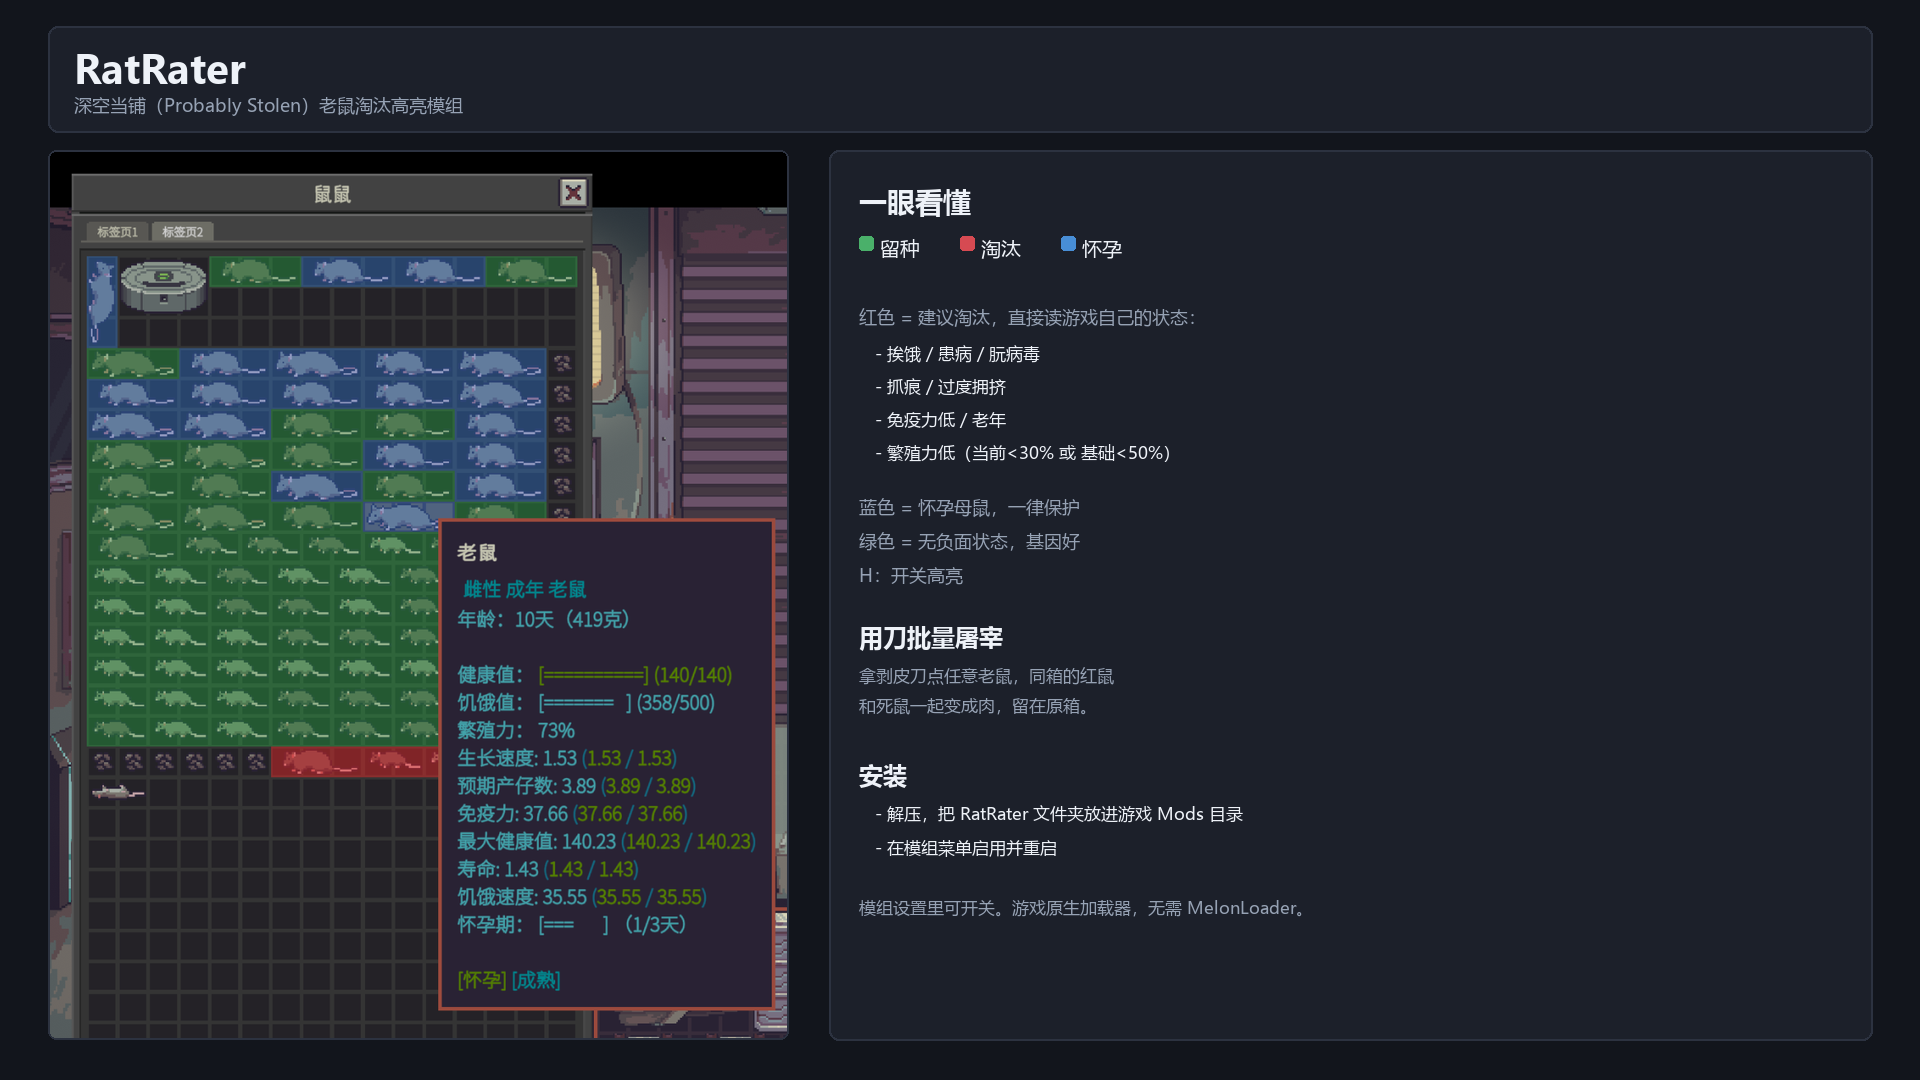
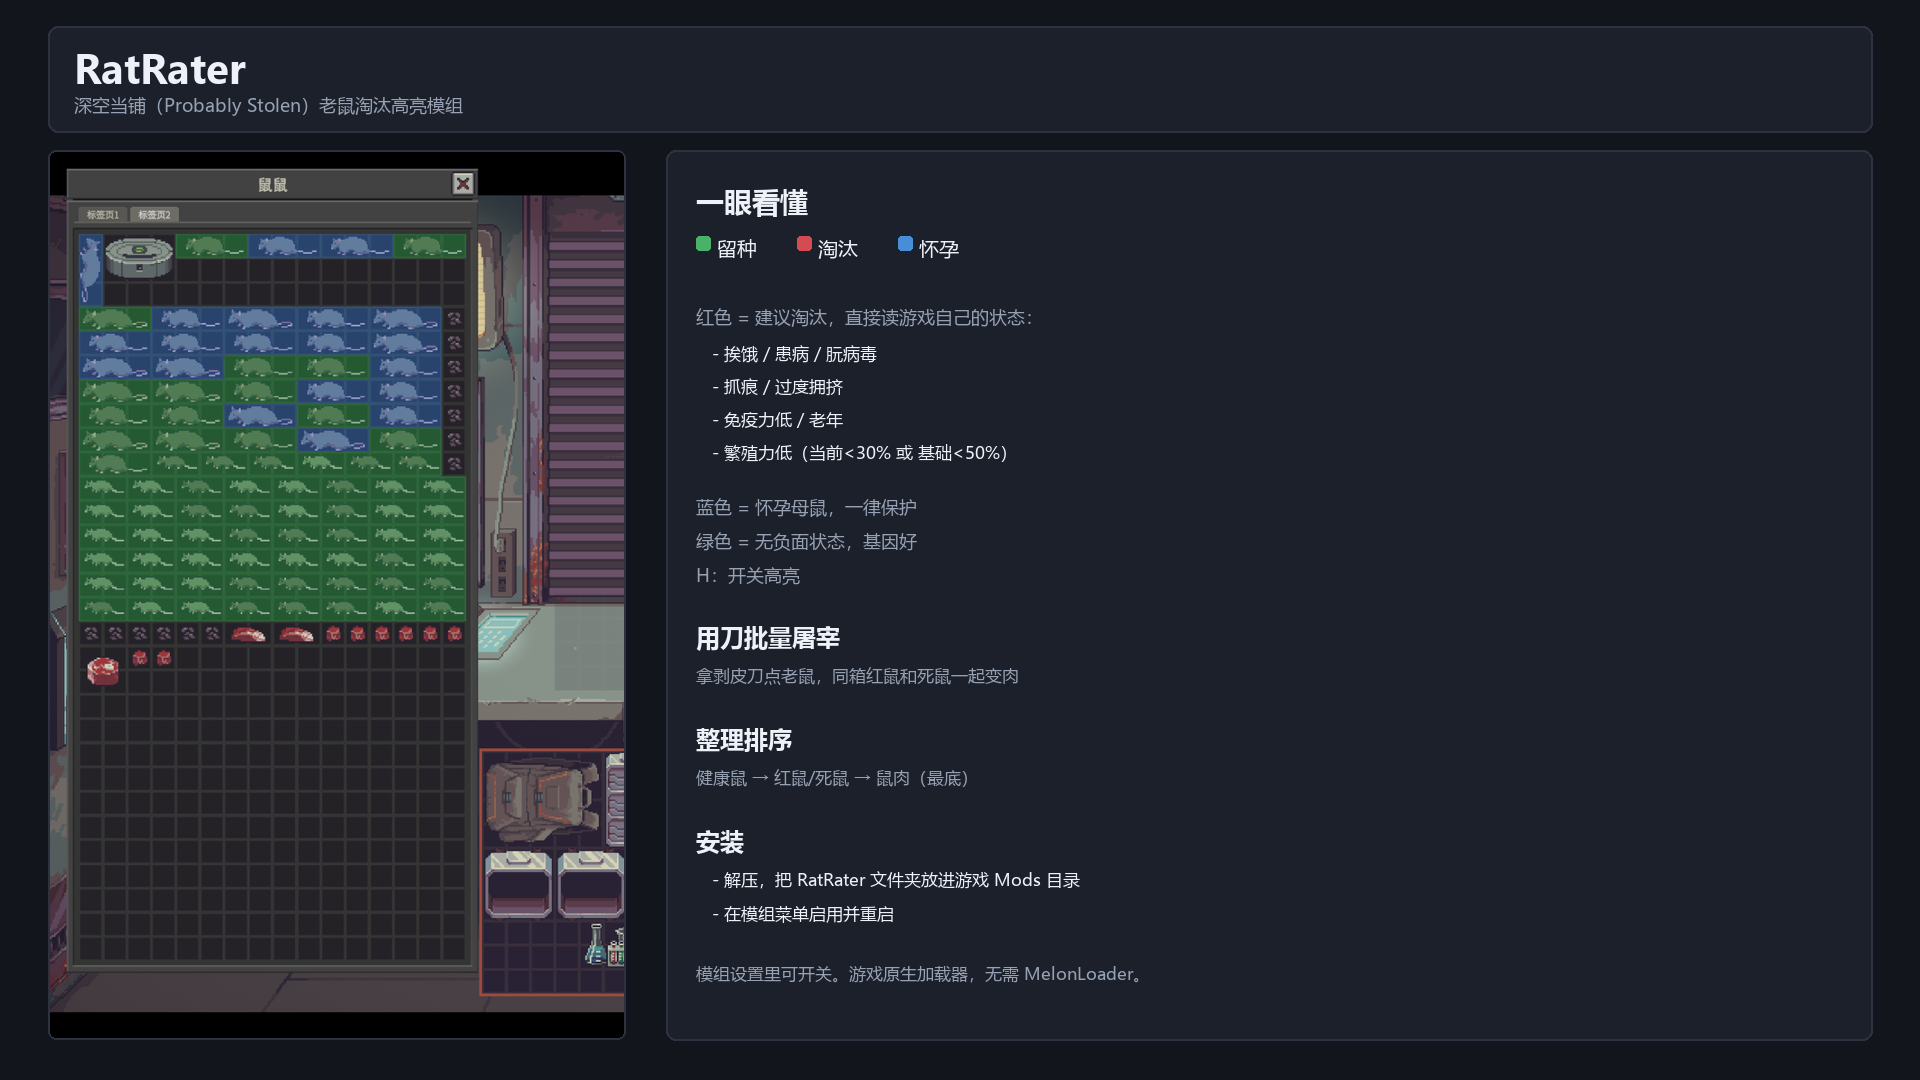
素材换成排序修正后的新截图并加鼠肉置底说明
- header 与中英 gallery 用新实机截图（健康鼠/红鼠/鼠肉三层排序清楚）
- gallery 信息栏新增「整理排序」段，说明三层顺序
- header 裁切上移，让三色高亮与分层都进画面

Changed region(s): [[0.0, 0.1222, 0.6875, 0.9778]]

diff --git a/RatRater/store-assets/compose.py b/RatRater/store-assets/compose.py
@@ -34,7 +34,7 @@ def font(size, bold=False, cn=False):
 def load_caps():
     os.makedirs(SRC, exist_ok=True)
     # 优先用带怀孕蓝色的新截图
-    new_cap = os.path.join(ASSETS, "image.bf3e4b4889.png")
+    new_cap = os.path.join(ASSETS, "image.01b0bf5040.png")
     if os.path.exists(new_cap):
         caps = [Image.open(new_cap).convert("RGB")]
     else:
@@ -94,7 +94,7 @@ def compose_header(cap):
     SW, SH = 660, 300
     cw, ch = cap.size
     src_h = int(cw / (SW / SH))
-    src_y = max(0, min(ch - src_h, int(ch * 0.45)))
+    src_y = max(0, min(ch - src_h, int(ch * 0.25)))
     crop = cap.crop((0, src_y, cw, src_y + src_h)).resize((SW, SH), Image.LANCZOS)
     mask = Image.new("L", (SW, SH), 0)
     ImageDraw.Draw(mask).rounded_rectangle((0, 0, SW - 1, SH - 1), radius=10, fill=255)
@@ -124,10 +124,12 @@ T_EN = {
     "green": "Green = no status, good genetics",
     "hotkey": "H: toggle highlights",
     "tidy": "BLADE BATCH BUTCHER",
-    "tidy1": "Click any rat with a blade to butcher",
-    "tidy2": "all red and dead rats in that container.",
+    "tidy1": "Blade-click a rat to butcher all red/dead in that container",
+    "tidy2": "",
+    "meat": "SORT ORDER",
+    "meat1": "Healthy rats, then red/dead rats, then rat meat at the bottom",
     "install": "INSTALL",
-    "ins_items": ("Unzip, copy RatRater into the game's Mods folder", "Enable in Mods menu and restart"),
+    "ins_items": ("Unzip and copy RatRater into the game's Mods folder", "Enable in Mods menu and restart"),
     "foot": "Toggle in mod settings. Native loader, no MelonLoader.",
 }
 
@@ -142,8 +144,10 @@ T_ZH = {
     "green": "绿色 = 无负面状态，基因好",
     "hotkey": "H：开关高亮",
     "tidy": "用刀批量屠宰",
-    "tidy1": "拿剥皮刀点任意老鼠，同箱的红鼠",
-    "tidy2": "和死鼠一起变成肉，留在原箱。",
+    "tidy1": "拿剥皮刀点老鼠，同箱红鼠和死鼠一起变肉",
+    "tidy2": "",
+    "meat": "整理排序",
+    "meat1": "健康鼠 → 红鼠/死鼠 → 鼠肉（最底）",
     "install": "安装",
     "ins_items": ("解压，把 RatRater 文件夹放进游戏 Mods 目录", "在模组菜单启用并重启"),
     "foot": "模组设置里可开关。游戏原生加载器，无需 MelonLoader。",
@@ -192,8 +196,9 @@ def compose_gallery(cap1, lang, t, outname):
     text_fit(d, px + 30, y, t["green"], 18, inner, MUTED, cn=cn); y += 34
     text_fit(d, px + 30, y, t["hotkey"], 18, inner, MUTED, cn=cn); y += 58
     text_fit(d, px + 30, y, t["tidy"], 24, inner, WHITE, bold=True, cn=cn); y += 44
-    text_fit(d, px + 30, y, t["tidy1"], 17, inner, MUTED, cn=cn); y += 30
-    text_fit(d, px + 30, y, t["tidy2"], 17, inner, MUTED, cn=cn); y += 64
+    text_fit(d, px + 30, y, t["tidy1"], 17, inner, MUTED, cn=cn); y += 58
+    text_fit(d, px + 30, y, t["meat"], 24, inner, WHITE, bold=True, cn=cn); y += 44
+    text_fit(d, px + 30, y, t["meat1"], 17, inner, MUTED, cn=cn); y += 58
     text_fit(d, px + 30, y, t["install"], 24, inner, WHITE, bold=True, cn=cn); y += 44
     for line in t["ins_items"]:
         text_fit(d, px + 46, y, "- " + line, 17, inner - 16, WHITE, cn=cn); y += 34
